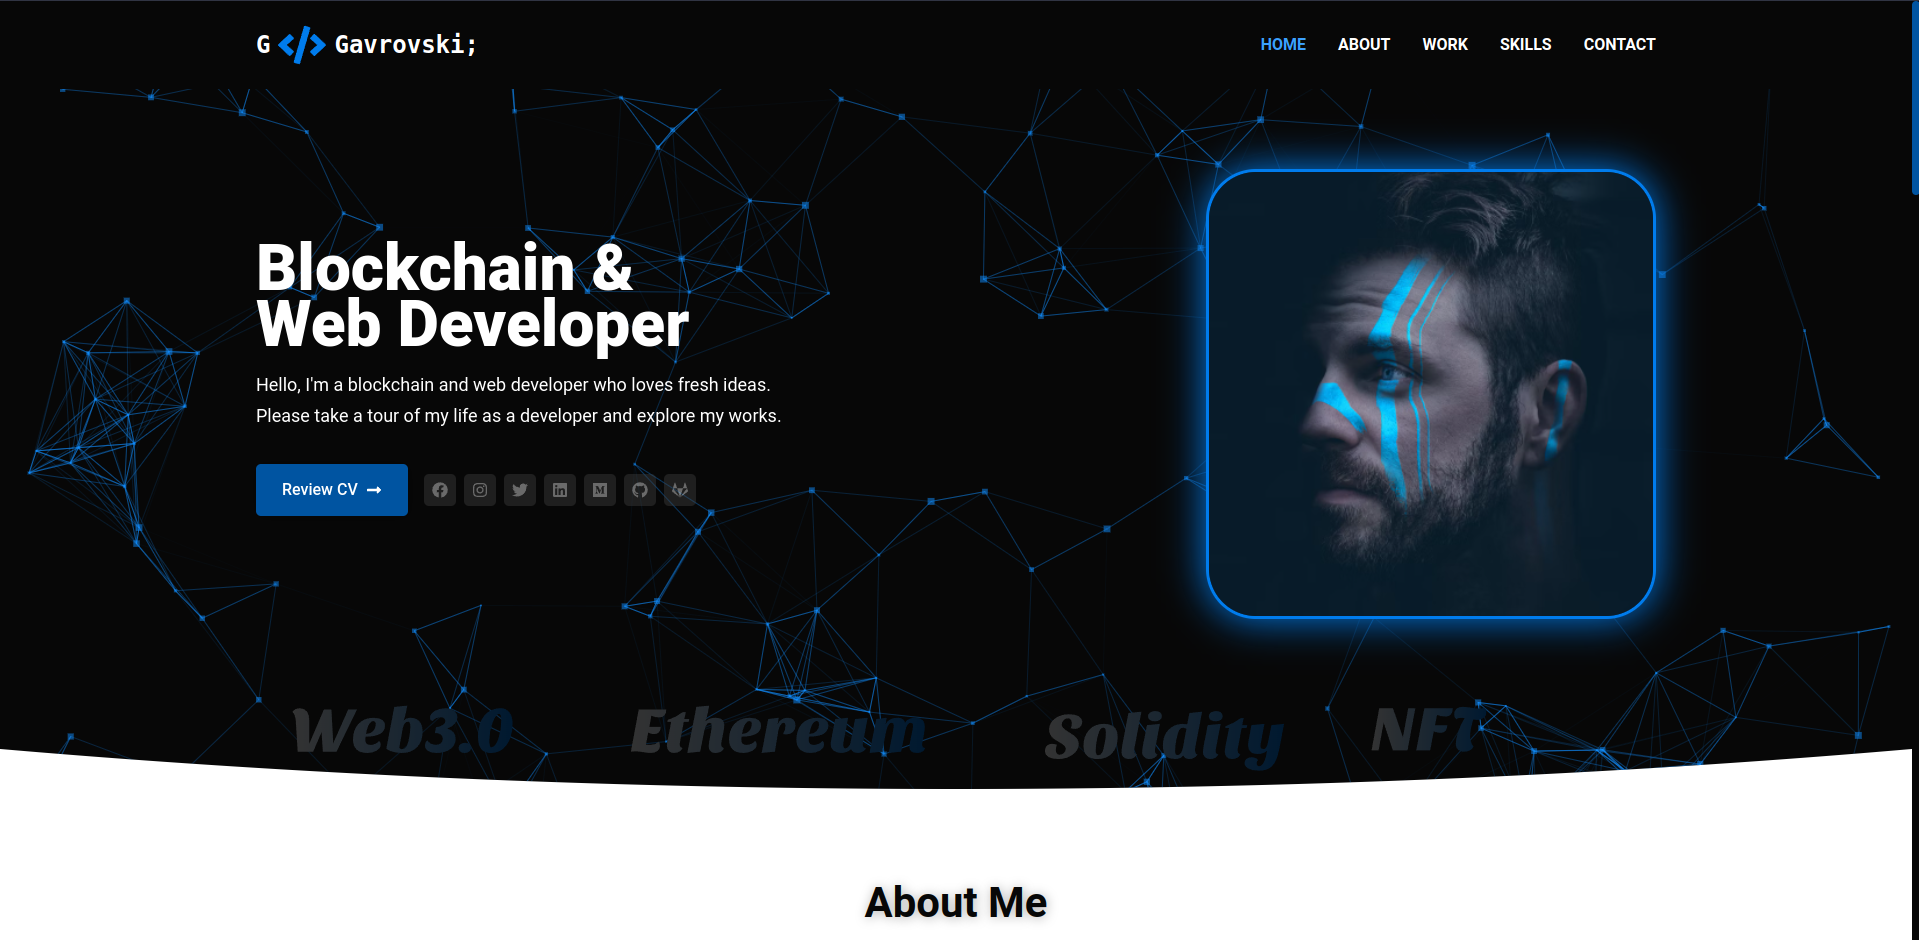
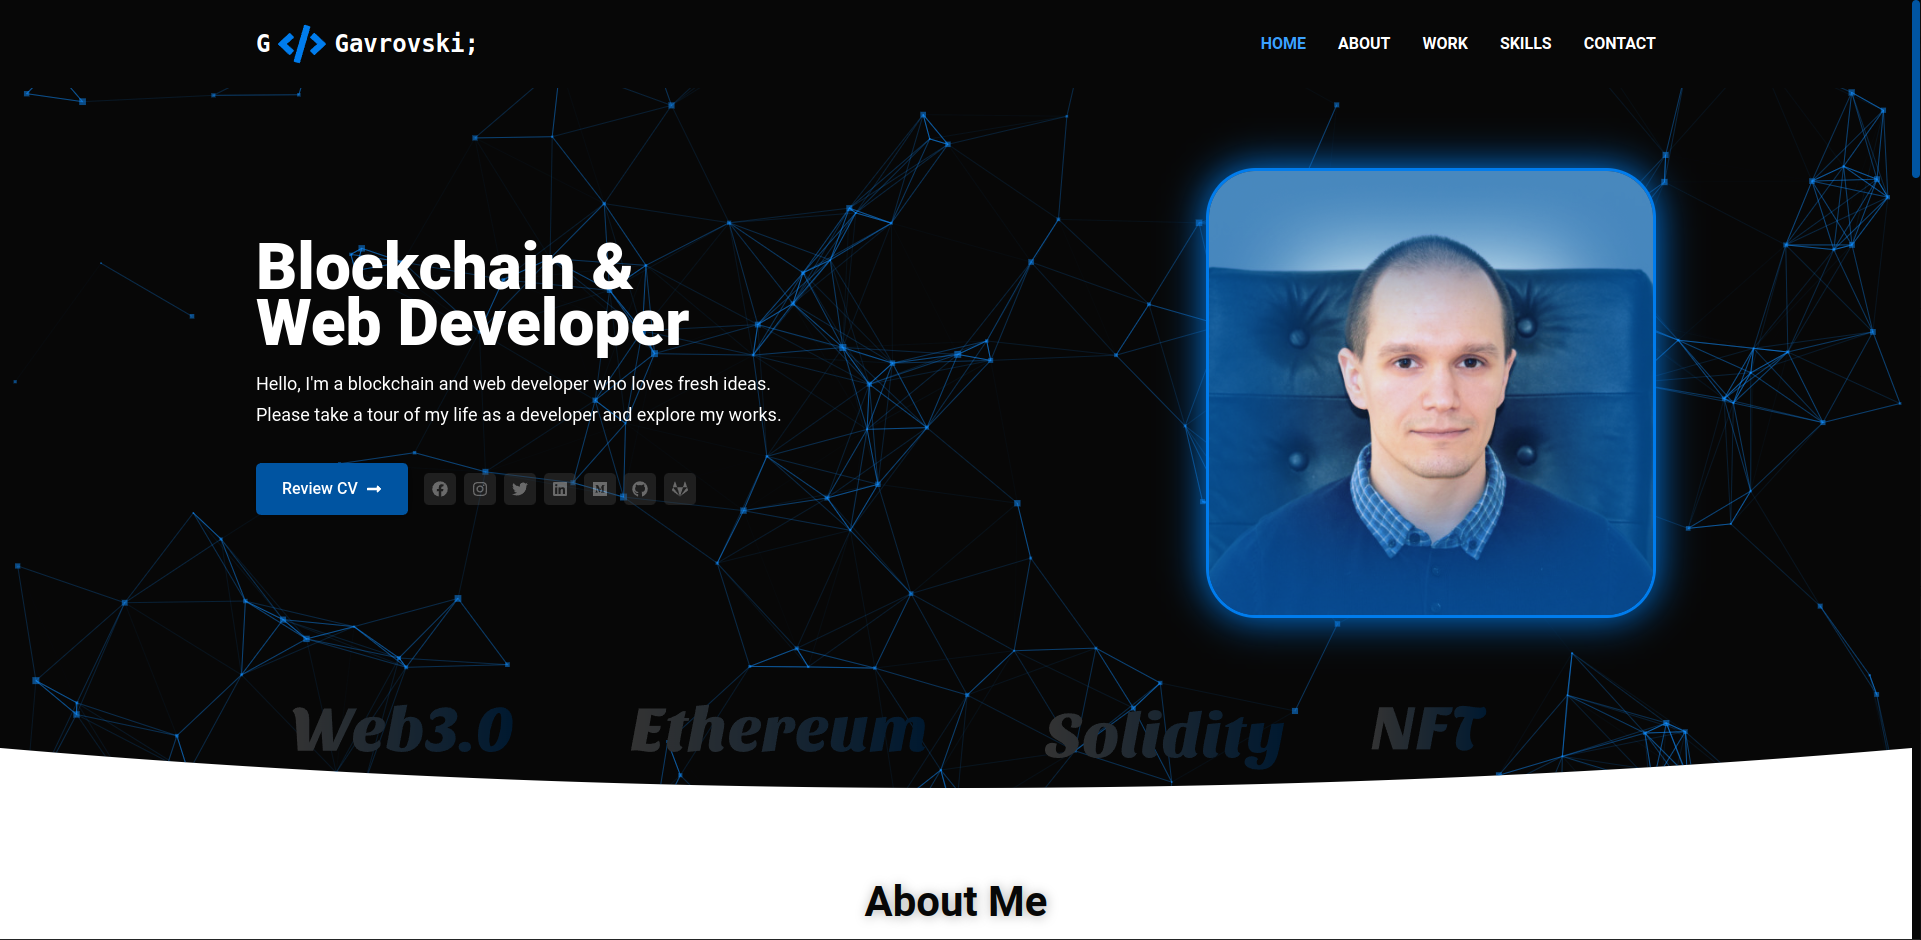
fix SEO

diff --git a/src/constants/images.js b/src/constants/images.js
@@ -6,7 +6,7 @@ import eth from '../assets/skills/eth.svg';
 import ethereum from '../assets/header/ethereum.svg';
 import figma from '../assets/skills/figma.svg';
 import git from '../assets/skills/git.svg';
-import hero from '../assets/header/hero-img.avif';
+import hero from '../assets/header/profile.png';
 import ipfsNotes from '../assets/portfolio/ipfs-notes.png';
 import ipfsEthStorage from '../assets/portfolio/ipfsEthStorage.png';
 import java from '../assets/skills/java.svg';

diff --git a/src/components/seo.js b/src/components/seo.js
@@ -31,7 +31,7 @@ export default function SEO({ title, description, keywords, author, meta }) {
 				<meta
 					key={i}
 					name={Object.entries(item)[0][1]}
-					content={Object.entries(item)[0][1]}
+					content={Object.entries(item)[1][1]}
 				/>
 			))}
 		</Head>
